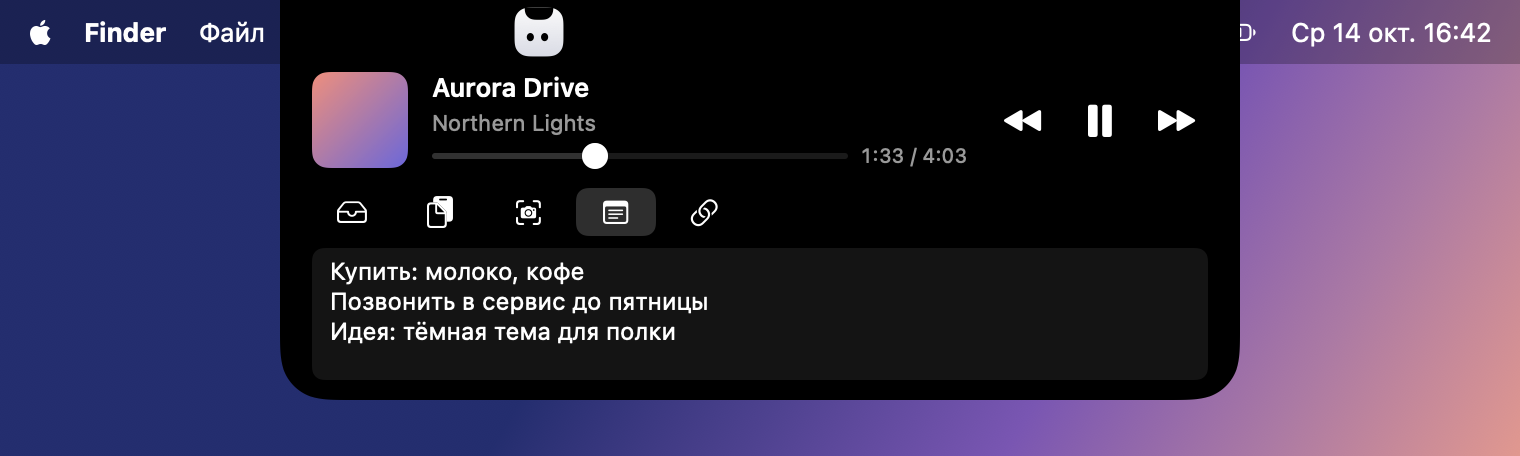
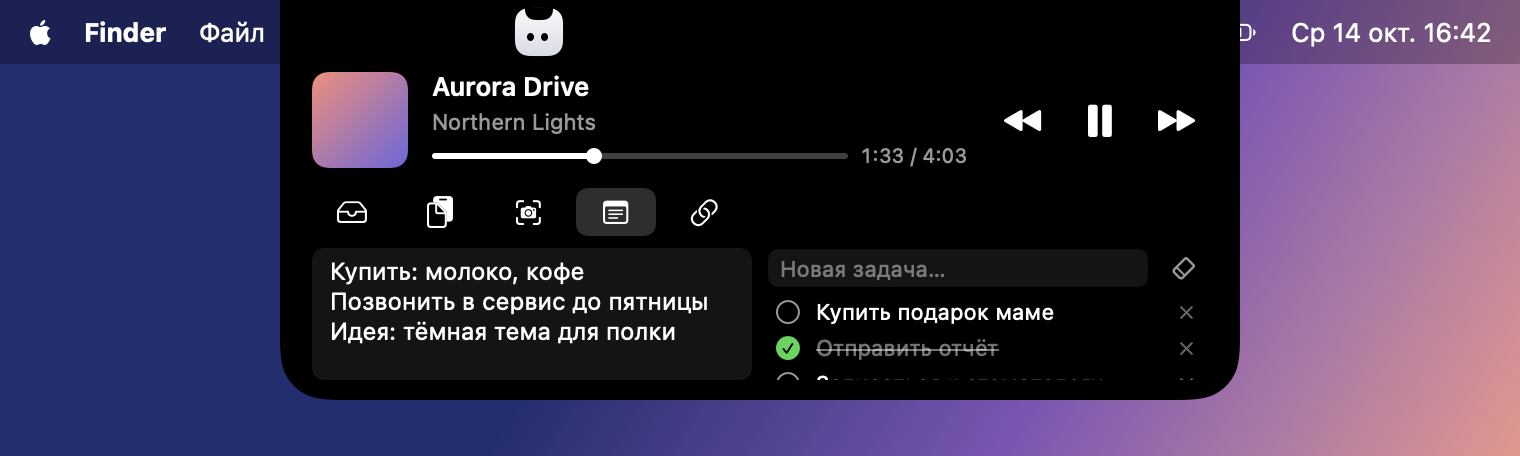
feat: checklist next to the note
The notes tab splits in two: the note on the left, a to-do list on the
right. Enter adds a task, the circle checks it (done tasks stay in
place, struck through), double-click renames, × deletes and the eraser
clears done tasks. The panel stays open while typing a task. Бровик
cheers when the last open task is checked off. Stored in checklist.json.

diff --git a/Sources/Brow/Views/ChecklistView.swift b/Sources/Brow/Views/ChecklistView.swift
@@ -1,0 +1,110 @@
+import BrowCore
+import SwiftUI
+
+/// The to-do half of the notes tab: Enter adds, the circle checks, double-click renames.
+struct ChecklistView: View {
+    let model: AppModel
+    @State private var newTask = ""
+    @State private var renamingId: UUID?
+    @State private var draft = ""
+    @FocusState private var focus: Field?
+
+    private enum Field: Hashable {
+        case newTask
+        case rename
+    }
+
+    var body: some View {
+        VStack(spacing: 3) {
+            HStack(spacing: 6) {
+                TextField("Новая задача…", text: $newTask)
+                    .textFieldStyle(.plain)
+                    .font(.system(size: 11))
+                    .padding(.horizontal, 6)
+                    .padding(.vertical, 3)
+                    .background(.white.opacity(0.08), in: RoundedRectangle(cornerRadius: 5))
+                    .focused($focus, equals: .newTask)
+                    .onSubmit {
+                        model.addTask(newTask)
+                        newTask = ""
+                        focus = .newTask   // keep typing the next one
+                    }
+                if model.checklist.hasDone {
+                    // An icon, not text: the half-width field needs the room.
+                    RemoveButton(symbol: "eraser", size: 11, hitArea: CGSize(width: 24, height: 20)) {
+                        model.removeDoneTasks()
+                    }
+                    .foregroundStyle(.white.opacity(0.6))
+                    .help("Убрать выполненные")
+                    .accessibilityLabel("Убрать выполненные")
+                }
+            }
+            if model.checklist.items.isEmpty {
+                Text("Пока пусто")
+                    .font(.system(size: 10))
+                    .foregroundStyle(.white.opacity(0.4))
+                    .frame(maxWidth: .infinity, maxHeight: .infinity)
+            } else {
+                ScrollView {
+                    LazyVStack(alignment: .leading, spacing: 0) {
+                        ForEach(model.checklist.items) { item in
+                            row(item)
+                        }
+                    }
+                }
+            }
+        }
+        // While typing here the panel stays open, as with the note.
+        .onChange(of: focus) { _, field in model.setEditingNote(field != nil) }
+    }
+
+    private func row(_ item: ChecklistItem) -> some View {
+        HStack(spacing: 4) {
+            Button { model.toggleTask(item.id) } label: {
+                Image(systemName: item.isDone ? "checkmark.circle.fill" : "circle")
+                    .font(.system(size: 12))
+                    .foregroundStyle(item.isDone ? .green : .white.opacity(0.6))
+                    .frame(width: 20, height: 18)
+                    .contentShape(Rectangle())
+            }
+            .buttonStyle(.plain)
+            if renamingId == item.id {
+                TextField("Задача", text: $draft)
+                    .textFieldStyle(.plain)
+                    .font(.system(size: 11))
+                    .focused($focus, equals: .rename)
+                    .onSubmit { finishRenaming(item) }
+                    .onExitCommand { renamingId = nil; focus = nil }
+                    .onChange(of: focus) { _, field in
+                        if field != .rename && renamingId == item.id { finishRenaming(item) }
+                    }
+            } else {
+                Text(item.text)
+                    .font(.system(size: 11))
+                    .strikethrough(item.isDone)
+                    .foregroundStyle(.white.opacity(item.isDone ? 0.45 : 1))
+                    .lineLimit(1)
+                    .frame(maxWidth: .infinity, alignment: .leading)
+                    .contentShape(Rectangle())
+                    .onTapGesture(count: 2) { startRenaming(item) }
+            }
+            RemoveButton(symbol: "xmark", size: 8, hitArea: CGSize(width: 22, height: 18)) {
+                model.removeTask(item.id)
+            }
+            .foregroundStyle(.white.opacity(0.4))
+        }
+        .frame(height: 18)
+    }
+
+    private func startRenaming(_ item: ChecklistItem) {
+        draft = item.text
+        renamingId = item.id
+        model.focusPanel?()   // a double-click on text does not make the panel key by itself
+        focus = .rename
+    }
+
+    private func finishRenaming(_ item: ChecklistItem) {
+        model.renameTask(item.id, to: draft)
+        renamingId = nil
+    }
+}

diff --git a/Sources/Brow/AppModel.swift b/Sources/Brow/AppModel.swift
@@ -52,6 +52,7 @@ final class AppModel {
     var shelf: ShelfStore
     var screenshots: ScreenshotHistory
     var links: LinkStore
+    var checklist: Checklist
     /// The web link currently on the pasteboard, for the «+ из буфера» button.
     var pasteboardLink: URL?
     var noteText: String {
@@ -63,6 +64,7 @@ final class AppModel {
     @ObservationIgnored private let shelfStore: JSONFileStore<ShelfStore>
     @ObservationIgnored private let screenshotsStore: JSONFileStore<ScreenshotHistory>
     @ObservationIgnored private let linksStore: JSONFileStore<LinkStore>
+    @ObservationIgnored private let checklistStore: JSONFileStore<Checklist>
     @ObservationIgnored private let linkInfo = LinkInfoFetcher()
     /// Makes the panel take keyboard input (set by the window controller).
     @ObservationIgnored var focusPanel: (() -> Void)?
@@ -86,6 +88,7 @@ final class AppModel {
         shelfStore = JSONFileStore(directory: directory, name: "shelf")
         screenshotsStore = JSONFileStore(directory: directory, name: "screenshots")
         linksStore = JSONFileStore(directory: directory, name: "links")
+        checklistStore = JSONFileStore(directory: directory, name: "checklist")
         // v2: the old rule took every album's cover for a placeholder once two of its
         // tracks played, so what it learned is dropped and learned again.
         try? FileManager.default.removeItem(at: directory.appendingPathComponent("artwork-placeholders.json"))
@@ -97,6 +100,7 @@ final class AppModel {
         shelf = shelfStore.load() ?? ShelfStore()
         screenshots = screenshotsStore.load() ?? ScreenshotHistory()
         links = linksStore.load() ?? LinkStore()
+        checklist = checklistStore.load() ?? Checklist()
         noteText = notes.text
         refreshShelf()
         tidyScreenshots()
@@ -226,6 +230,34 @@ final class AppModel {
 
     func sendMedia(_ command: MediaCommand) {
         mediaController?.send(command)
+    }
+
+    // MARK: Checklist
+
+    func addTask(_ text: String) {
+        guard checklist.add(text) != nil else { return }
+        persist(checklist, to: checklistStore)
+    }
+
+    /// Бровик cheers when the last open task gets checked off.
+    func toggleTask(_ id: UUID) {
+        if checklist.toggle(id: id) { mascot.handle(.checklistCompleted, now: .now) }
+        persist(checklist, to: checklistStore)
+    }
+
+    func renameTask(_ id: UUID, to text: String) {
+        checklist.rename(id: id, to: text)
+        persist(checklist, to: checklistStore)
+    }
+
+    func removeTask(_ id: UUID) {
+        checklist.remove(id: id)
+        persist(checklist, to: checklistStore)
+    }
+
+    func removeDoneTasks() {
+        checklist.removeDone()
+        persist(checklist, to: checklistStore)
     }
 
     // MARK: Links

diff --git a/Tests/BrowCoreTests/ChecklistTests.swift b/Tests/BrowCoreTests/ChecklistTests.swift
@@ -1,0 +1,57 @@
+import XCTest
+@testable import BrowCore
+
+final class ChecklistTests: XCTestCase {
+    var list = Checklist()
+
+    func testAddsToTheEndAndIgnoresBlankText() {
+        list.add("Купить молоко")
+        list.add("  Позвонить в сервис ")
+        XCTAssertNil(list.add("   "))
+        XCTAssertEqual(list.items.map(\.text), ["Купить молоко", "Позвонить в сервис"])
+        XCTAssertTrue(list.items.allSatisfy { !$0.isDone })
+    }
+
+    func testToggleMarksAndUnmarks() throws {
+        let id = try XCTUnwrap(list.add("Задача"))
+        list.add("Другая")
+        list.toggle(id: id)
+        XCTAssertTrue(list.items[0].isDone)
+        list.toggle(id: id)
+        XCTAssertFalse(list.items[0].isDone)
+    }
+
+    func testToggleReportsWhenEverythingIsDone() throws {
+        let a = try XCTUnwrap(list.add("A")), b = try XCTUnwrap(list.add("B"))
+        XCTAssertFalse(list.toggle(id: a))   // B is still open
+        XCTAssertTrue(list.toggle(id: b))    // that was the last one
+        XCTAssertFalse(list.toggle(id: b))   // un-checking is not a celebration
+    }
+
+    func testDoneItemsStayInPlace() throws {
+        let a = try XCTUnwrap(list.add("A"))
+        list.add("B")
+        list.toggle(id: a)
+        XCTAssertEqual(list.items.map(\.text), ["A", "B"])
+    }
+
+    func testRenameKeepsOldTextWhenNewIsBlank() throws {
+        let id = try XCTUnwrap(list.add("Старое"))
+        list.rename(id: id, to: "  Новое ")
+        XCTAssertEqual(list.items[0].text, "Новое")
+        list.rename(id: id, to: "  ")
+        XCTAssertEqual(list.items[0].text, "Новое")
+    }
+
+    func testRemoveAndRemoveDone() throws {
+        let a = try XCTUnwrap(list.add("A")), b = try XCTUnwrap(list.add("B"))
+        list.add("C")
+        XCTAssertFalse(list.hasDone)
+        list.toggle(id: b)
+        XCTAssertTrue(list.hasDone)
+        list.removeDone()
+        XCTAssertEqual(list.items.map(\.text), ["A", "C"])
+        list.remove(id: a)
+        XCTAssertEqual(list.items.map(\.text), ["C"])
+    }
+}

diff --git a/Sources/BrowCore/Checklist.swift b/Sources/BrowCore/Checklist.swift
@@ -1,0 +1,50 @@
+import Foundation
+
+public struct ChecklistItem: Codable, Equatable, Identifiable, Sendable {
+    public let id: UUID
+    public var text: String
+    public var isDone: Bool
+}
+
+/// The to-do list next to the note. Items keep their place when checked, so the
+/// list does not jump under the cursor; done items go away with `removeDone()`.
+public struct Checklist: Codable, Equatable, Sendable {
+    public private(set) var items: [ChecklistItem] = []
+
+    public init() {}
+
+    public var hasDone: Bool { items.contains(where: \.isDone) }
+
+    /// Appends a task; blank text is ignored.
+    @discardableResult
+    public mutating func add(_ text: String) -> UUID? {
+        let text = text.trimmingCharacters(in: .whitespacesAndNewlines)
+        guard !text.isEmpty else { return nil }
+        let item = ChecklistItem(id: UUID(), text: text, isDone: false)
+        items.append(item)
+        return item.id
+    }
+
+    /// Checks or unchecks a task; returns true when this checked off the last open one.
+    @discardableResult
+    public mutating func toggle(id: UUID) -> Bool {
+        guard let index = items.firstIndex(where: { $0.id == id }) else { return false }
+        items[index].isDone.toggle()
+        return items[index].isDone && items.allSatisfy(\.isDone)
+    }
+
+    /// A blank name keeps the old text.
+    public mutating func rename(id: UUID, to text: String) {
+        let text = text.trimmingCharacters(in: .whitespacesAndNewlines)
+        guard !text.isEmpty, let index = items.firstIndex(where: { $0.id == id }) else { return }
+        items[index].text = text
+    }
+
+    public mutating func remove(id: UUID) {
+        items.removeAll { $0.id == id }
+    }
+
+    public mutating func removeDone() {
+        items.removeAll(where: \.isDone)
+    }
+}

diff --git a/Sources/Brow/Views/NotesView.swift b/Sources/Brow/Views/NotesView.swift
@@ -1,18 +1,24 @@
 import SwiftUI
 
-/// The single quick note. While it has focus the panel stays open.
+/// The notes tab: the quick note on the left, the to-do list on the right.
+/// While the note has focus the panel stays open.
 struct NotesView: View {
     let model: AppModel
     @FocusState private var focused: Bool
 
     var body: some View {
-        TextEditor(text: Binding(get: { model.noteText }, set: { model.noteText = $0 }))
-            .font(.system(size: 12))
-            .scrollContentBackground(.hidden)
-            .padding(4)
-            .background(.white.opacity(0.08), in: RoundedRectangle(cornerRadius: 6))
-            .focused($focused)
-            .onChange(of: focused) { model.setEditingNote(focused) }
-            .onDisappear { model.setEditingNote(false) }
+        HStack(spacing: 8) {
+            TextEditor(text: Binding(get: { model.noteText }, set: { model.noteText = $0 }))
+                .font(.system(size: 12))
+                .scrollContentBackground(.hidden)
+                .padding(4)
+                .background(.white.opacity(0.08), in: RoundedRectangle(cornerRadius: 6))
+                .focused($focused)
+                .onChange(of: focused) { model.setEditingNote(focused) }
+                .frame(maxWidth: .infinity)
+            ChecklistView(model: model)
+                .frame(maxWidth: .infinity)
+        }
+        .onDisappear { model.setEditingNote(false) }
     }
 }

diff --git a/Sources/BrowCore/Mascot.swift b/Sources/BrowCore/Mascot.swift
@@ -3,7 +3,7 @@ import Foundation
 
 /// Things in Brow the mascot reacts to.
 public enum MascotEvent: Sendable {
-    case fileShelved, textCopied, screenshotTaken, linkSaved
+    case fileShelved, textCopied, screenshotTaken, linkSaved, checklistCompleted
 }
 
 public enum MascotExpression: Equatable, Sendable {
@@ -59,7 +59,7 @@ public struct MascotState: Equatable, Sendable {
 
     public mutating func handle(_ event: MascotEvent, now: Date) {
         switch event {
-        case .fileShelved, .linkSaved: react(.happy, for: Self.reactionDuration, now: now)
+        case .fileShelved, .linkSaved, .checklistCompleted: react(.happy, for: Self.reactionDuration, now: now)
         case .textCopied: react(.wink, for: Self.reactionDuration, now: now)
         case .screenshotTaken: react(.squint, for: Self.reactionDuration, now: now)
         }

diff --git a/Sources/Brow/ScreenshotRenderer.swift b/Sources/Brow/ScreenshotRenderer.swift
@@ -69,6 +69,11 @@ enum ScreenshotRenderer {
         }
         model.links = links
 
+        var checklist = Checklist()
+        for task in ["Купить подарок маме", "Отправить отчёт", "Записаться к стоматологу"] { checklist.add(task) }
+        if let done = checklist.items.dropFirst().first { checklist.toggle(id: done.id) }
+        model.checklist = checklist
+
         model.noteText = "Купить: молоко, кофе\nПозвонить в сервис до пятницы\nИдея: тёмная тема для полки"
     }
 

diff --git a/Tests/BrowCoreTests/MascotTests.swift b/Tests/BrowCoreTests/MascotTests.swift
@@ -32,6 +32,8 @@ final class MascotStateTests: XCTestCase {
         XCTAssertEqual(m.expression(at: t0 + 4.1), .squint)
         m.handle(.linkSaved, now: t0 + 6)
         XCTAssertEqual(m.expression(at: t0 + 6.1), .happy)
+        m.handle(.checklistCompleted, now: t0 + 8)
+        XCTAssertEqual(m.expression(at: t0 + 8.1), .happy)
     }
 
     func testFallsAsleepWhenCursorRests() {

diff --git a/README.md b/README.md
@@ -26,7 +26,7 @@ Brow превращает вырез («чёлку») MacBook в мини-пан
 
 ![Ссылки](docs/screenshots/links.png)
 
-**Заметка:** один блокнот с автосохранением.
+**Заметка и задачи:** слева блокнот, справа чек-лист.
 
 ![Заметка](docs/screenshots/notes.png)
 
@@ -39,6 +39,7 @@ Brow превращает вырез («чёлку») MacBook в мини-пан
 - **Скриншоты:** сделайте снимок через ⌘⇧5 с параметром «Сохранить в → Буфер обмена», и он появится на отдельной вкладке. Хранятся последние 5, более старые удаляются. Клик снова кладёт скриншот в буфер обмена, перетаскивание отдаёт его PNG-файлом в Finder, чат или письмо. «×» на миниатюре удаляет скриншот, «Очистить всё» удаляет все. Картинки, скопированные из браузера и других программ, сюда не попадают.
 - **Бровик:** персонаж Brow, маленькая живая иконка слева от выреза. Следит глазами за курсором, моргает, поднимает бровь, когда курсор рядом, подпрыгивает от клика, радуется файлам на полке, подмигивает, когда вы копируете запись из буфера, жмурится, когда копируете скриншот, засыпает, если курсор долго не двигается, и сонно просыпается, если панель долго не открывали.
 - **Ссылки:** держите под рукой нужные страницы, например книгу в Яндекс Книгах. Перетащите ссылку из адресной строки браузера на вырез, или скопируйте её и нажмите «+ из буфера» на вкладке. Клик открывает ссылку в браузере по умолчанию, двойной клик переименовывает, правый клик даёт «Скопировать ссылку» и «Удалить». Название и значок сайта Brow берёт со страницы сам; пока сети нет, показывается адрес.
+- **Задачи:** на вкладке заметки справа чек-лист. Наберите задачу и нажмите Enter, клик по кружку отмечает её выполненной, двойной клик переименовывает, «×» удаляет, ластик убирает все выполненные. Когда закрыта последняя задача, Бровик радуется.
 - **Заметка:** один блокнот с автосохранением. Пока вы печатаете, панель не сворачивается.
 
 ## Установка без Xcode
@@ -128,7 +129,7 @@ make install
 - **Запуск:** Brow стартует сам при включении Mac. Если вы из него вышли, запустите его через Spotlight (⌘Пробел → «Brow»), Launchpad или Finder → «Программы» в домашней папке (⇧⌘H). Иконки в Dock у Brow нет: он живёт в вырезе.
 - **Выход:** правый клик по раскрытой панели → «Выйти из Brow».
 - **Автозапуск и скриншоты:** см. разделы [«Автозапуск»](#автозапуск) и [«Скриншоты»](#скриншоты) ниже.
-- **Ваши данные** (история буфера, скриншоты, полка, ссылки, заметка) лежат в `~/Library/Application Support/Brow/`.
+- **Ваши данные** (история буфера, скриншоты, полка, ссылки, заметка, задачи) лежат в `~/Library/Application Support/Brow/`.
 
 ## Скриншоты
 

diff --git a/docs/superpowers/specs/2026-10-14-brow-design.md b/docs/superpowers/specs/2026-10-14-brow-design.md
@@ -60,6 +60,11 @@
 - Название: своё имя (двойной клик; пустое возвращает заголовок) → заголовок страницы (og:title или <title>) → адрес. Значок — из <link rel="icon"> или /favicon.ico. Загрузка при добавлении и повторно при открытии панели, если не удалась.
 - Клик открывает в браузере по умолчанию; контекстное меню: Открыть, Переименовать, Скопировать ссылку, Удалить; «×» и «Очистить всё». Хранение — `links.json`. Бровик радуется сохранённой ссылке.
 
+### Чек-лист (добавлено 2026-11-03)
+- Вкладка «Заметка» делится пополам: слева блокнот, справа чек-лист (`Checklist`).
+- Поле «Новая задача…» + Enter добавляет в конец; кружок отмечает/снимает; выполненные зачёркиваются и остаются на месте; двойной клик — переименование (пустое имя не меняет текст); «×» удаляет; ластик (виден, если есть выполненные) убирает все выполненные.
+- Пока фокус в поле задачи или в переименовании, панель не сворачивается. Закрытие последней открытой задачи — радость Бровика. Хранение — `checklist.json`.
+
 ### Быстрые заметки
 - Один блокнот — одно текстовое поле, автосохранение с задержкой ~0,5 с.
 
